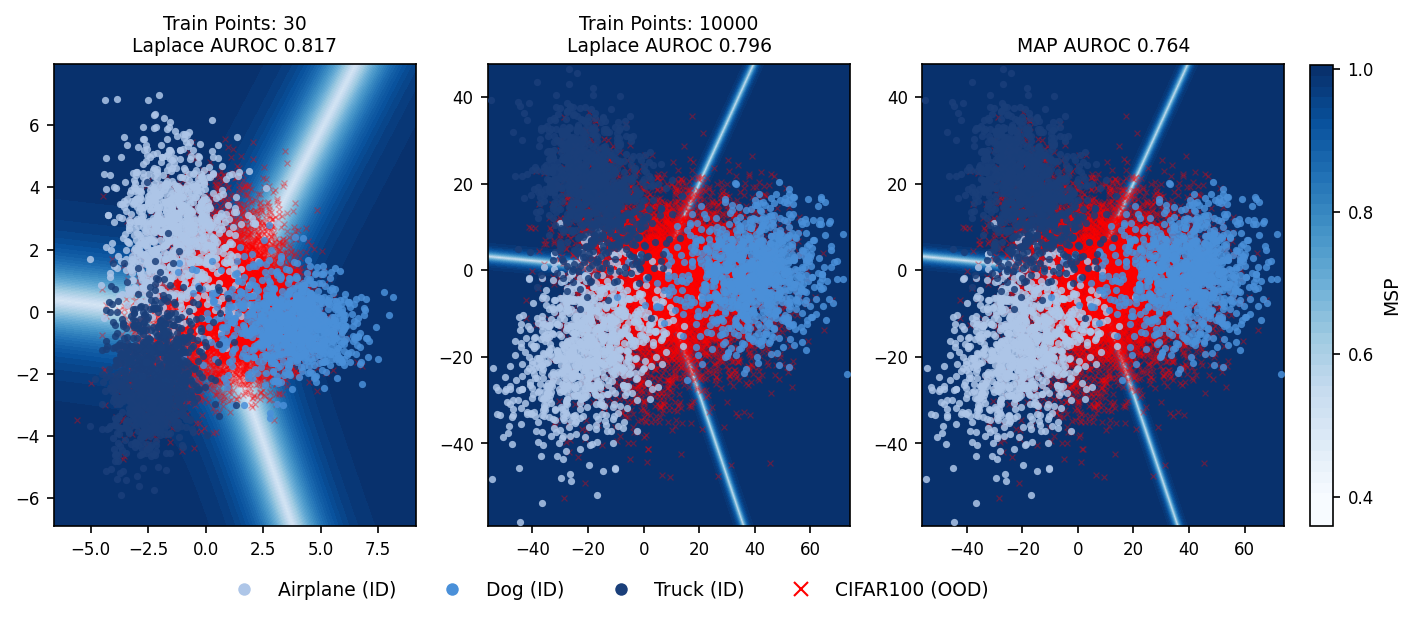
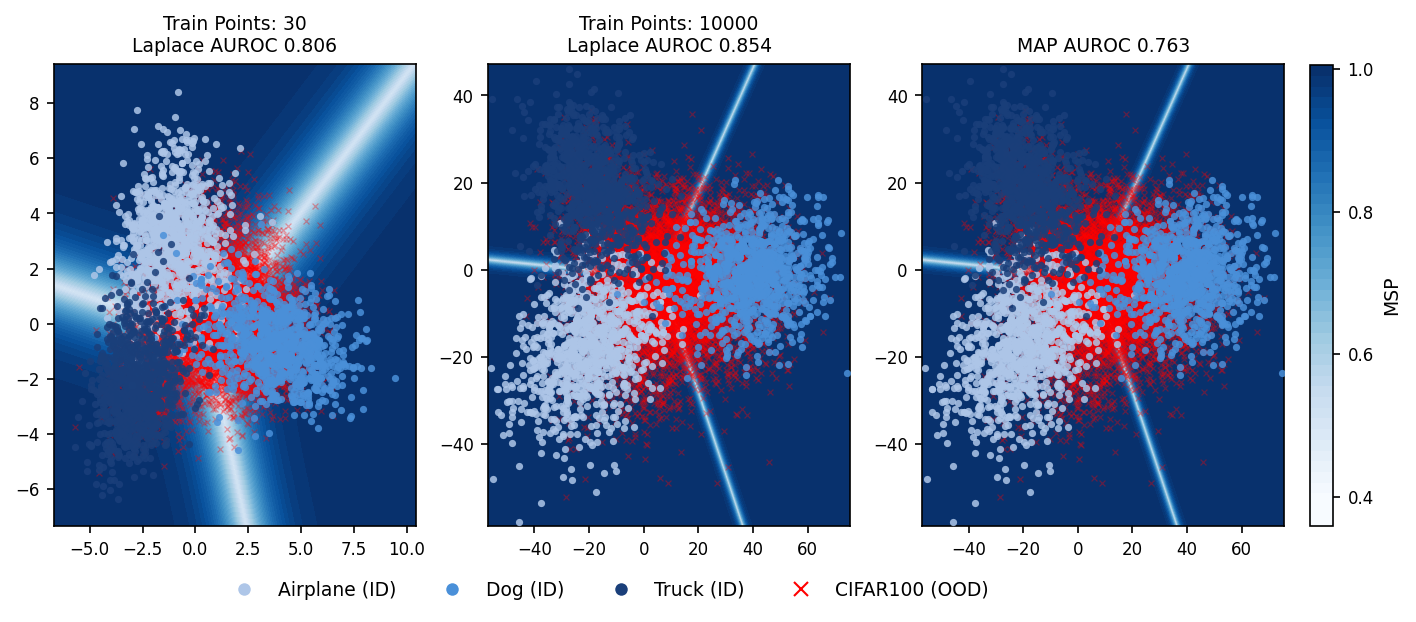
Changed architecture slightly

diff --git a/reproduction/experiments/fit_laplace.py b/reproduction/experiments/fit_laplace.py
@@ -59,6 +59,7 @@ class LastLayerLaplace:
     def optimize_prior_precision(self, method='marglik'):
         best_score = float('inf')
         best_log_prior = 0.0
+        map_norm = (self.theta_map ** 2).sum().item()
 
         for log_prior in np.linspace(-4, 4, 40):
             prior = float(np.exp(log_prior))
@@ -66,7 +67,7 @@ class LastLayerLaplace:
             sign, log_det = torch.linalg.slogdet(H)
             if sign <= 0:
                 continue
-            score = 0.5 * log_det.item() - 0.5 * self.n_params * log_prior
+            score = 0.5 * log_det.item() - 0.5 * self.n_params * log_prior + 0.5 * prior * map_norm
             if score < best_score:
                 best_score = score
                 best_log_prior = log_prior